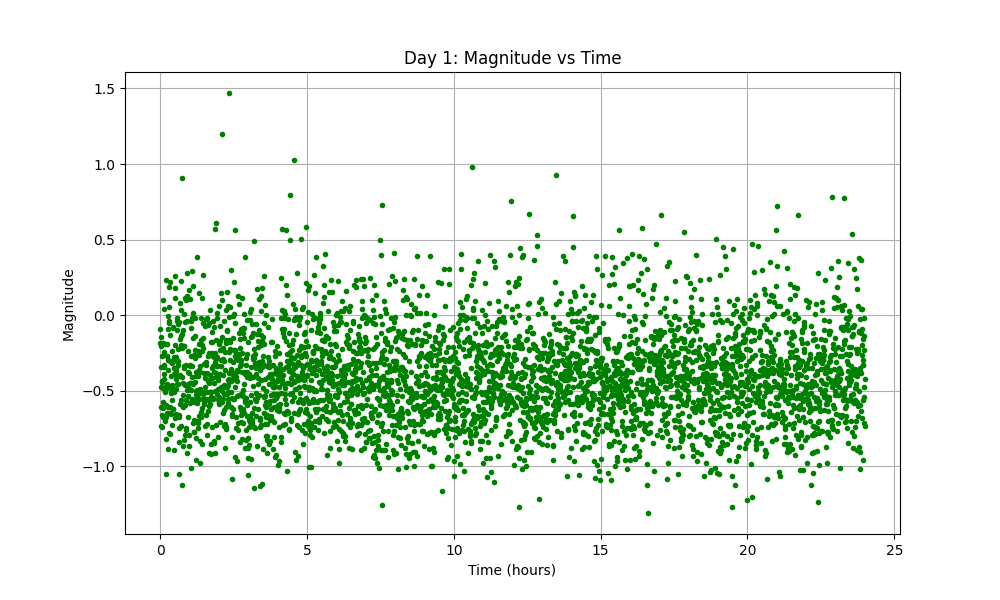
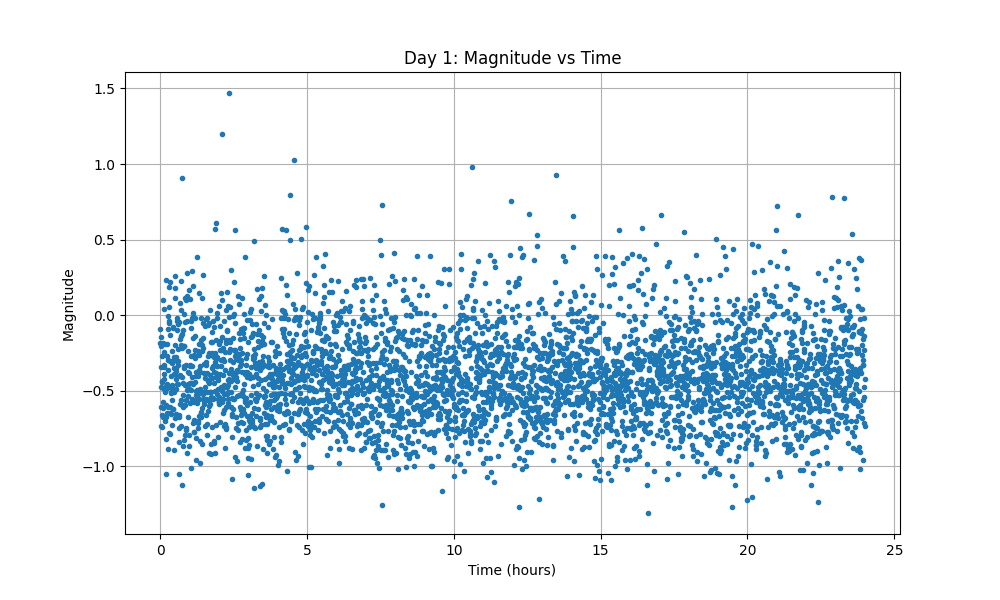
Working in the function and implementation

diff --git a/examples/seismology.py b/examples/seismology.py
@@ -1,21 +1,91 @@
 import numpy as np
 import matplotlib.pyplot as plt
+from goph420_lab03.regression import multi_regress
 
 data = np.loadtxt(r"C:/Users/carla/Repos/goph420-w2024-lab03-stCA/examples/M_data.txt") #Loading Data from .txt
 
 time = data[:,0] # First column of data (time [hours])
 magnitude = data[:,1] # Second column of data (magnitude)
 
-
+day_times = []
+day_magnitudes = []
 for day in range(1, 6): # Loop from day 1 to day 5
     day_time = time[(time >= (day-1)*24) & (time < day*24)]
     day_magnitude = magnitude[(time >= (day-1)*24) & (time < day*24)]
-    
+    day_times.append(day_time)
+    day_magnitudes.append(day_magnitude)
+
     plt.figure(figsize=(10, 6)) # Create a new figure for each day
-    plt.plot(day_time, day_magnitude, 'g.') # Plot magnitude against time
+    plt.plot(day_time, day_magnitude, '.') # Plot magnitude against time
     plt.title(f'Day {day}: Magnitude vs Time') # Set the title for each plot
     plt.xlabel('Time (hours)') # Label the x-axis
     plt.ylabel('Magnitude') # Label the y-axis
     plt.grid(True) # Add a grid for better readability
     plt.savefig (f'figures/magnitude_days{day}.png')
+
+for m, (dt, dm) in enumerate (zip(day_times, day_magnitudes)):
+    # Extracting values from day_times[0] between 10 to 22 hours and their respective day_magnitudes
+    filtered_times_0 = [dt for dt in day_times[0] if 10 <= dt < 22]
+    filtered_magnitudes_0 = [dm for dt, dm in zip(day_times[0], day_magnitudes[0]) if 10 <= dt < 22]
+
+    # Extracting values from day_times[1] between 25 to 35 hours and their respective day_magnitudes
+    filtered_times_1 = [dt for dt in day_times[1] if 25 <= dt < 35]
+    filtered_magnitudes_1 = [dm for dt, dm in zip(day_times[1], day_magnitudes[1]) if 25 <= dt < 30]
+
+    # Extracting values from day_times[2] between 50 to 55 hours and their respective day_magnitudes
+    filtered_times_2 = [dt for dt in day_times[2] if 50 <= dt < 55]
+    filtered_magnitudes_2 = [dm for dt, dm in zip(day_times[2], day_magnitudes[2]) if 50 <= dt < 55]
+
+    # Extracting values from day_times[3] between 80 to 88 hours and their respective day_magnitudes
+    filtered_times_3 = [dt for dt in day_times[3] if 80 <= dt < 88]
+    filtered_magnitudes_3 = [dm for dt, dm in zip(day_times[3], day_magnitudes[3]) if 80 <= dt < 88]
+
+    # Extracting values from day_times[4] between 98 to 105 hours and their respective day_magnitudes
+    filtered_times_4 = [dt for dt in day_times[4] if 98 <= dt < 105]
+    filtered_magnitudes_4 = [dm for dt, dm in zip(day_times[4], day_magnitudes[4]) if 98 <= dt < 105]
+
+# List of filtered times lists
+filtered_times = [filtered_times_0, filtered_times_1, filtered_times_2, filtered_times_3, filtered_times_4]
+
+# List of filtered magnitudes lists
+filtered_magnitudes = [filtered_magnitudes_0, filtered_magnitudes_1, filtered_magnitudes_2, filtered_magnitudes_3, filtered_magnitudes_4]
+
+dif_mang = np.arange(-0.6, 0.6, 0.1)
+values_times = []
+values_magnitudes = []
+for m, (vt, vm) in enumerate(zip(filtered_times, filtered_magnitudes)):
+    for mag in dif_mang:
+        values_magnitudes.append([m for m in vm if m > mag])
+        values_times.append([t for t, m in zip(vt, vm) if m > mag])
+
+N = []
+
+#Loop to count the number of values in each filtered list
+for i, (times, magnitudes) in enumerate(zip(values_times, values_magnitudes)):
+    count_times = len(times)
+    count_magnitudes = len(magnitudes)
+    if i % len(dif_mang) == 0:
+        N.append([])
+    N[-1].append(count_times)
     
+for i in range(len(N)):
+    plt.figure(figsize=(10, 6))
+    plt.plot(dif_mang, N[i], '.') # Plot magnitude against time
+    plt.title(f'Day {i+1}: Magnitude vs Number of Events') # Set the title for each plot
+    plt.xlabel('Magnitudes') # Label the x-axis
+    plt.ylabel('Number of Events') # Label the y-axis
+    plt.grid(True) # Add a grid for better readability
+    plt.savefig (f'figures/MvsN_days{i}.png')
+
+for i in range(len(N)):
+    plt.figure(figsize=(10, 6))
+    plt.plot(dif_mang, N[i], '.') # Plot magnitude against time
+    plt.title(f'Day {i+1}: Magnitude vs Number of Events') # Set the title for each plot
+    plt.yscale('log')
+    plt.xlabel('Magnitudes') # Label the x-axis
+    plt.ylabel('Number of Events') # Label the y-axis
+    plt.grid(True) # Add a grid for better readability
+    plt.savefig (f'figures/Logscale_MvsN_days{i}.png')
+
+log_N = np.log10(N)
+coeffs, residuals, r2 = multi_regress(dif_mang, log_N)

diff --git a/src/goph420_lab03/regression.py b/src/goph420_lab03/regression.py
@@ -20,15 +20,17 @@ def multi_regress(y, Z):
 # """
 
 # Convert the input data to numpy arrays
+    n,m = Z.shape
     y = np.array([])
     Z = np.array([])
-    n, m = Z.shape 
+    Z = np.column_stack((np.ones(n), Z[:, 1]))
+        
 
     coeffs = np.linalg.lstsq(Z, y)[0] # Perform the regression
     residuals = y - np.dot(Z, coeffs) # Compute the residuals
     ybar = np.mean(y) # Compute the mean of y
     sstot = np.sum((y - ybar) ** 2) # Compute the total sum of squares
     ssres = np.sum(residuals ** 2) # Compute the sum of squared residuals
-    r2 = 1 - ssres / sstot # Compute the coefficient of determination
+    r2 = 1 - ssres / sstot # Compute the r2
 
     return coeffs, residuals, r2
